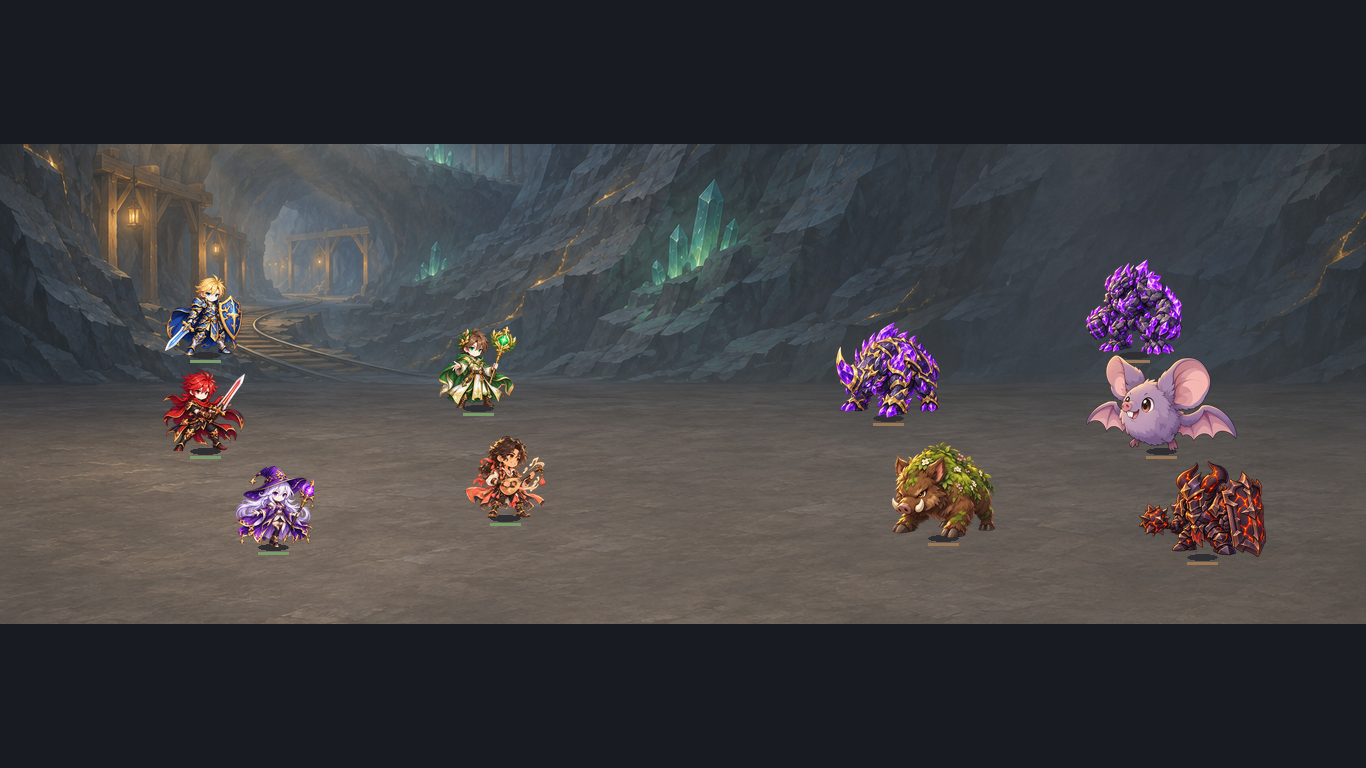
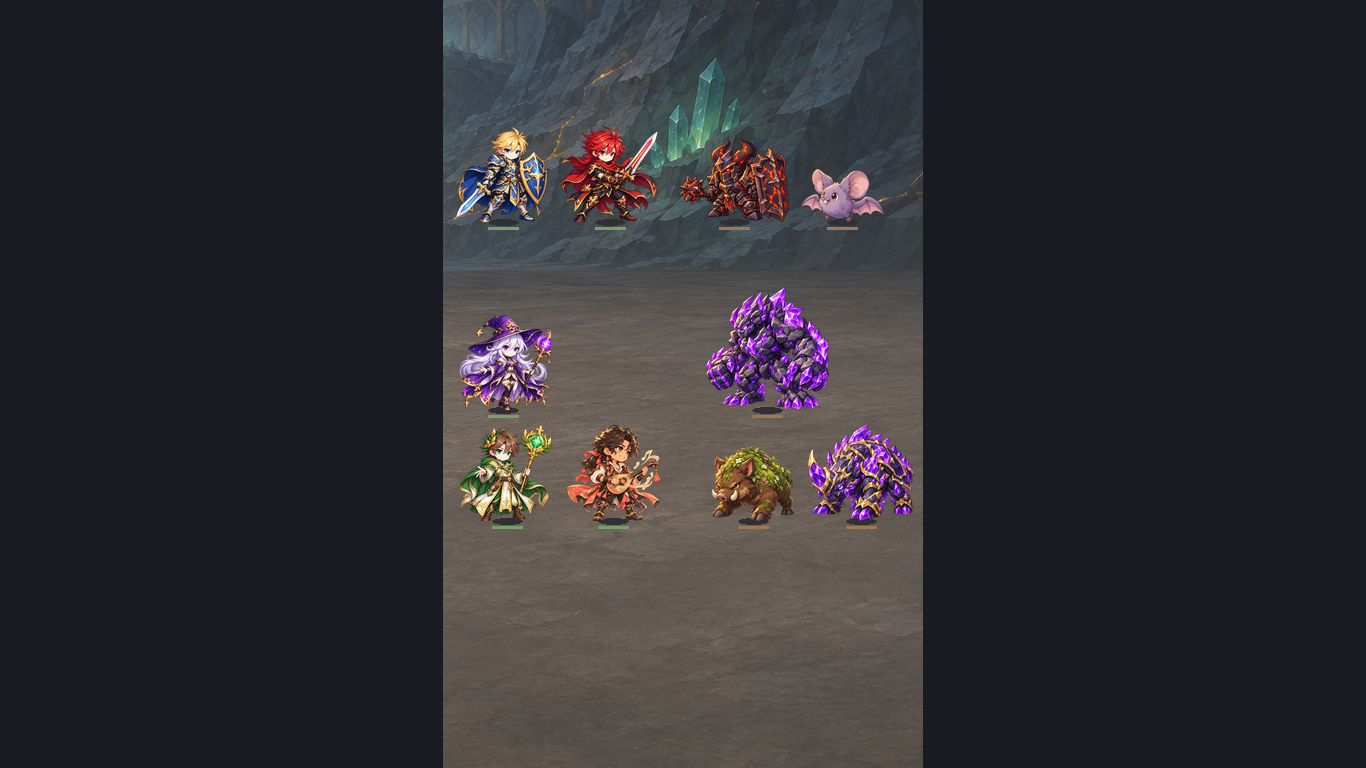
art: deliver ART-WORLD-MINE-001

diff --git a/incoming/ART-WORLD-MINE-001/build.py b/incoming/ART-WORLD-MINE-001/build.py
@@ -137,25 +137,37 @@ def map_previews(tiles, rails):
 
 
 def fight(bg):
-    for width, height, band in ((390, 844, 372), (1366, 768, 480)):
-        preview = Image.new('RGB', (width, height), '#181b22')
-        # Match the battle's horizon while slicing the art to the visible field.
-        field = ImageOps.fit(bg, (width, band), Image.Resampling.LANCZOS, centering=(.5, .45))
-        hero = [(0.15, .44), (.15, .64), (.2, .84), (.35, .55), (.37, .78)]
-        foe = [(.83, .44), (.85, .64), (.88, .86), (.65, .57), (.69, .82)]
+    for width, height in ((390, 844), (1366, 768)):
+        frame_w = min(width, 480)
+        field_w = frame_w - 12
+        field_h = 477 if width == 390 else 430
+        field_top = 170 if width == 390 else 130
+        field_left = 6
+        ax = field_left + field_w / 2
+        ay = field_top + field_h * .27
+        scale = max(field_w / 1536, field_h / 768, ax / 768, (frame_w - ax) / 768,
+                    ay / (1024 * .45), (height - ay) / (1024 * .55))
+        left, top = ax - 768 * scale, ay - 1024 * .45 * scale
+        field = bg.transform((frame_w, height), Image.Transform.AFFINE,
+                             (1 / scale, 0, -left / scale, 0, 1 / scale, -top / scale),
+                             Image.Resampling.BICUBIC)
+        hero = [(.115, .215), (.345, .215), (.115, .65), (.125, .91), (.35, .91)]
+        foe = [(.68, .65), (.84, .215), (.61, .215), (.88, .91), (.65, .91)]
         for side, slots in enumerate((hero, foe)):
             for number, (x, y) in enumerate(slots):
                 actor_file = SOURCE / f'actor-{side}-{number}.png'
                 figure = Image.open(actor_file).convert('RGBA')
                 figure = figure.crop(figure.getbbox())
-                scale = (0.17 if side == 0 else .20) * band / figure.height
-                figure = figure.resize((round(figure.width * scale), round(figure.height * scale)), Image.Resampling.LANCZOS)
-                px, py = round(x * width), round(y * band)
+                actor_height = (78 if side == 0 else (100, 43, 68, 79, 62)[number]) * frame_w / 390
+                ratio = actor_height / figure.height
+                figure = figure.resize((round(figure.width * ratio), round(actor_height)), Image.Resampling.LANCZOS)
+                px, py = round(field_left + x * field_w), round(field_top + y * field_h)
                 draw = ImageDraw.Draw(field)
                 draw.ellipse((px - 15, py - 3, px + 15, py + 3), fill='#303034')
                 field.paste(figure, (px - figure.width // 2, py - figure.height), figure)
                 draw.rectangle((px - 15, py + 5, px + 15, py + 7), fill='#9d7854' if side else '#799e69')
-        preview.paste(field, (0, (height - band) // 2))
+        preview = Image.new('RGB', (width, height), '#181b22')
+        preview.paste(field, ((width - frame_w) // 2, 0))
         preview.save(PREVIEW / f'battle-{width}.png')
 
 

diff --git a/incoming/ART-WORLD-MINE-001/NOTES.md b/incoming/ART-WORLD-MINE-001/NOTES.md
@@ -3,5 +3,5 @@
 - รัน `python3 build.py` ด้วย Pillow และ NumPy เพื่อสร้างแอตลาส WebP แบบ lossless และภาพตรวจจากต้นฉบับใน `sources/`
 - `tiles_mine.json` และ `rails_mine.json` ระบุกรอบขนาด 128 พิกเซล ขอบพื้นทั้งสี่แบบของแต่ละโซนใช้ค่าสีเดียวกัน สคริปต์ตรวจทุกคู่ทั้งแนวตั้งและแนวนอน
 - `rail_end_stop_w` เป็นภาพกลับด้านสำหรับปลายรางที่ (18,15) ช่อง (20,11) แสดงตำแหน่งรางใต้กำแพงร้าวเพื่อช่วยตรวจแนว
-- ภาพแผนที่ใช้ผังจริง 25×25 ที่ 60 พิกเซลต่อช่อง ชั้นมืดในภาพจำลองรัศมีหนึ่งช่อง ภาพสนามใช้ตัวละครแทนจากแอตลาสเกมและจัดตำแหน่งเพื่อดูความชัดของฉาก
+- ภาพแผนที่ใช้ผังจริง 25×25 ที่ 60 พิกเซลต่อช่อง ชั้นมืดในภาพจำลองรัศมีหนึ่งช่อง ภาพสนามใช้ตัวละครแทนจากแอตลาสเกมและสูตร riftBackdropFrame โดยวางกรอบกว้าง 480 พิกเซลกลางจอเดสก์ท็อป
 - ImageGen คืนไฟล์ต้นฉบับพร้อมใช้เป็น seed สำหรับทำซ้ำการจัดแอตลาส เครื่องมือไม่ได้รายงานค่า seed ตัวเลข
